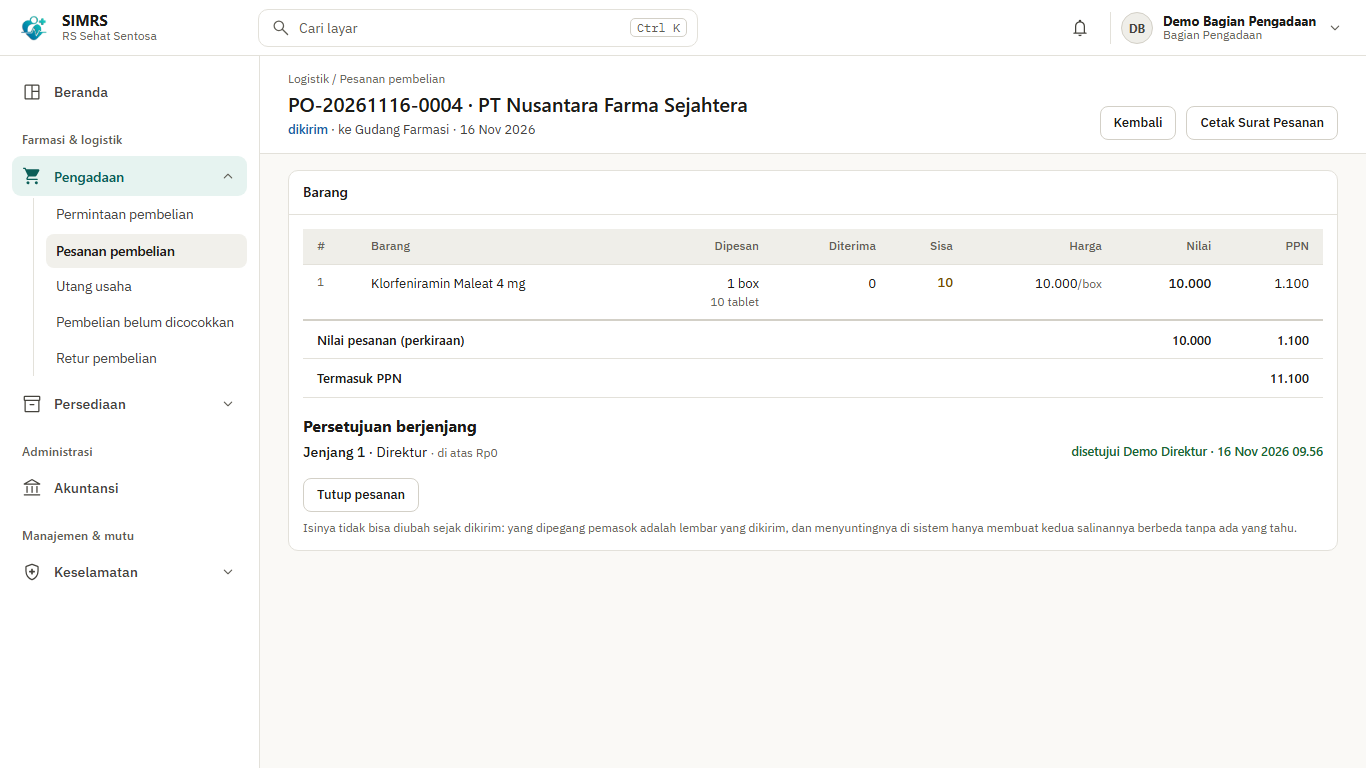
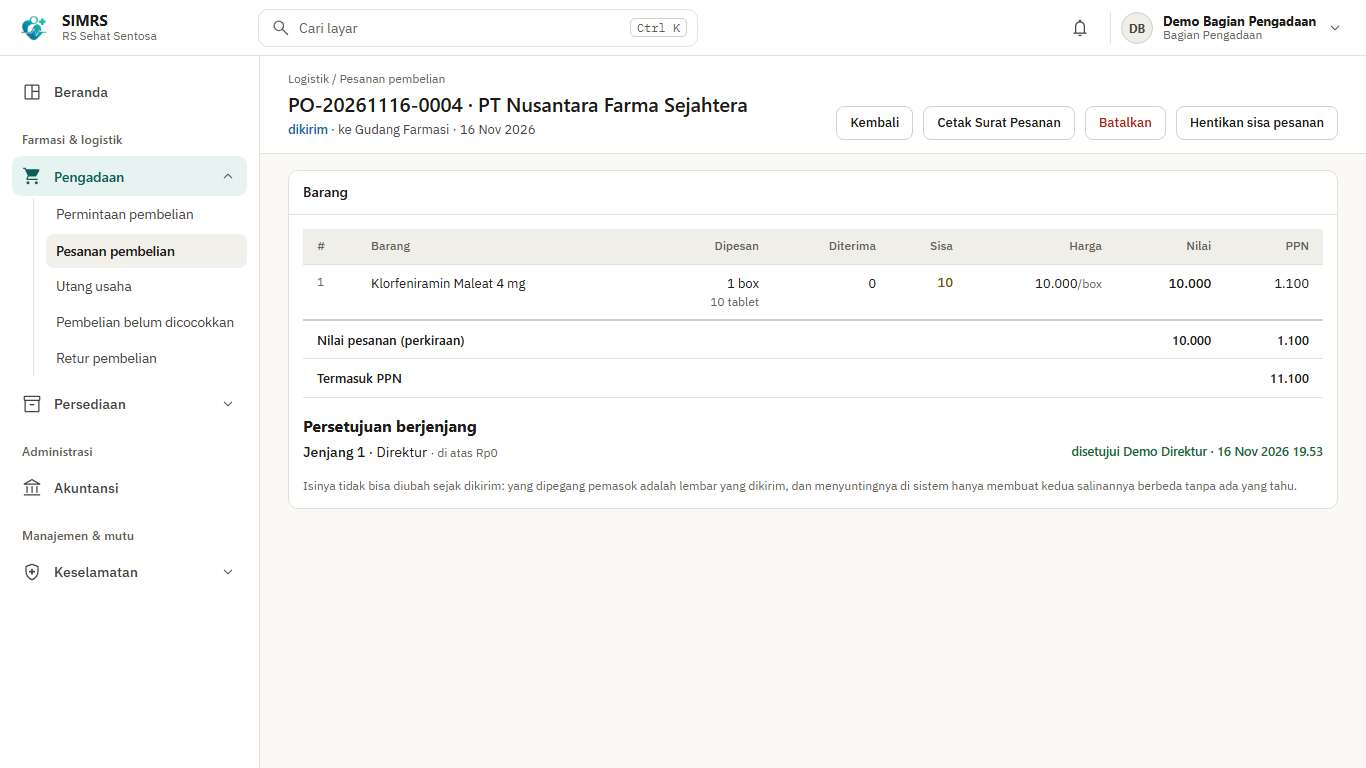
Release 2026.11.16.2

Changed region(s): [[0.2152, 0.625, 0.9531, 0.7188], [0.6149, 0.1562, 0.9531, 0.1875]]

diff --git a/README.md b/README.md
@@ -57,7 +57,7 @@ ke SATUSEHAT).
 ## Tangkapan layar
 
 Semua data pada gambar adalah karangan. Pasien dan nomor rekam medisnya dibuat acak, dan
-dokternya tenaga kesehatan uji milik Kemenkes atau karangan. Gambar diambil dari versi 2026.11.16.1.
+dokternya tenaga kesehatan uji milik Kemenkes atau karangan. Gambar diambil dari versi 2026.11.16.1, kecuali pesanan pembelian dari 2026.11.16.2.
 
 ### Medis
 
@@ -353,10 +353,9 @@ beserta pekerjaan bagian akuntansinya.
 | **AK1** | Akuntansi: jurnal yang lahir dari kegiatan rumah sakit, dari obat diterima sampai klaim BPJS dibayar, dibuka dengan neraca, laba rugi, dan stok awal bulan | [Tonton](https://youtu.be/O_5LYMKMhAQ), 15 menit |
 | **AK2** | Akuntansi: utang pemasok, aset tetap, gaji, jasa dokter, dan penyusutan, ditutup dengan neraca dan laba rugi dua periode serta kartu stok | [Tonton](https://youtu.be/8NDDQrqOtHM), 11 menit |
 
-S0 sampai S5 direkam pada 15 dan 16 November 2026 dari versi yang hampir sama dengan rilis 2026.11.16.1, sesudah
-tampilannya banyak berubah. S5 sudah memuat dua perbaikan yang belum ada di rilis itu: jendela kunjungan
-nifas pertama (KF1) di papan nifas, dan tempat persalinan yang terisi dari tempat ibu dirawat. AK1 dan AK2 direkam 3 November 2026, jadi beberapa layarnya dapat
-sedikit berbeda dari versi terbaru.
+S0 sampai S4 direkam pada 15 dan 16 November 2026 dari versi yang hampir sama dengan rilis 2026.11.16.1, dan
+S5 dari versi yang hampir sama dengan rilis 2026.11.16.2, sesudah tampilannya banyak berubah. AK1 dan AK2
+direkam 3 November 2026, jadi beberapa layarnya dapat sedikit berbeda dari versi terbaru.
 
 Video **tidak membuktikan pengiriman ke Kemenkes**. Integrasi dimatikan pada rekamannya.
 
